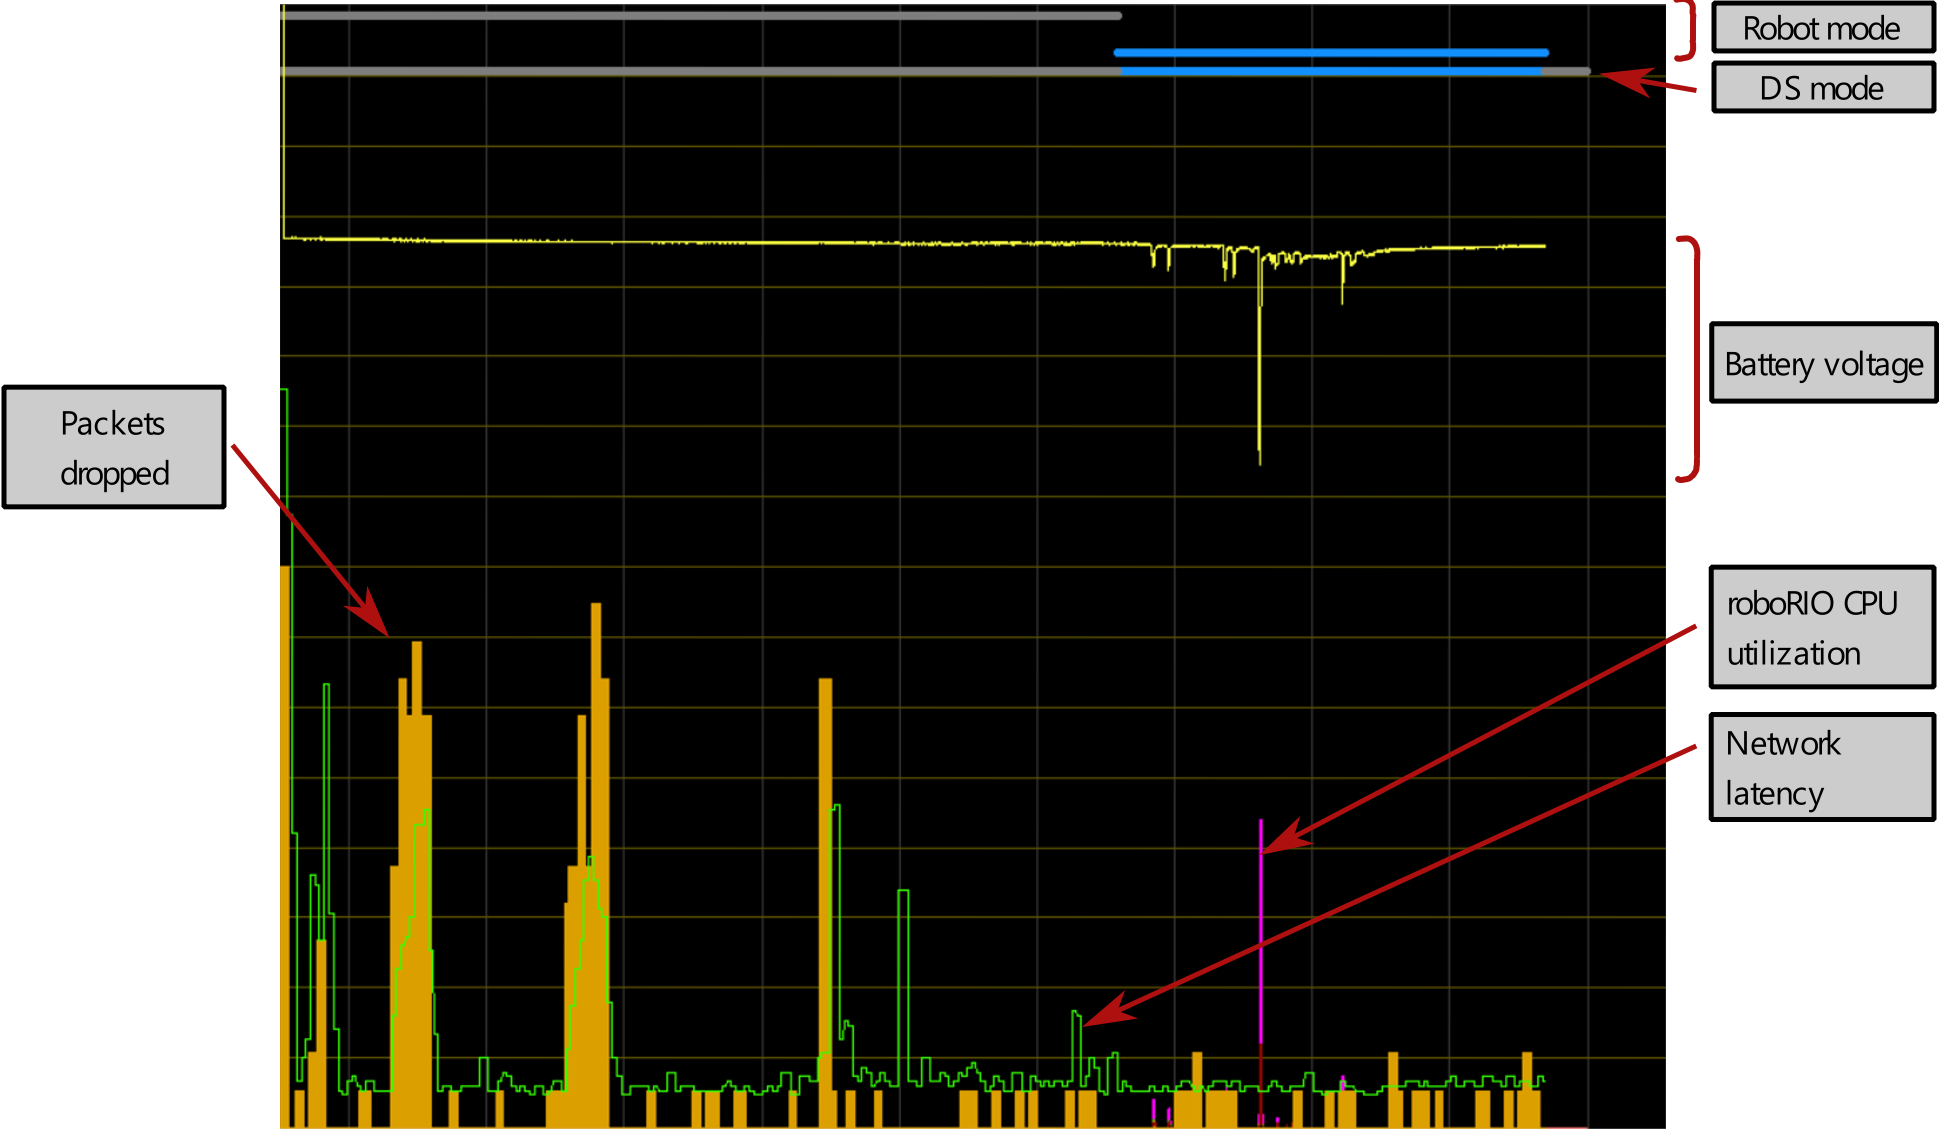
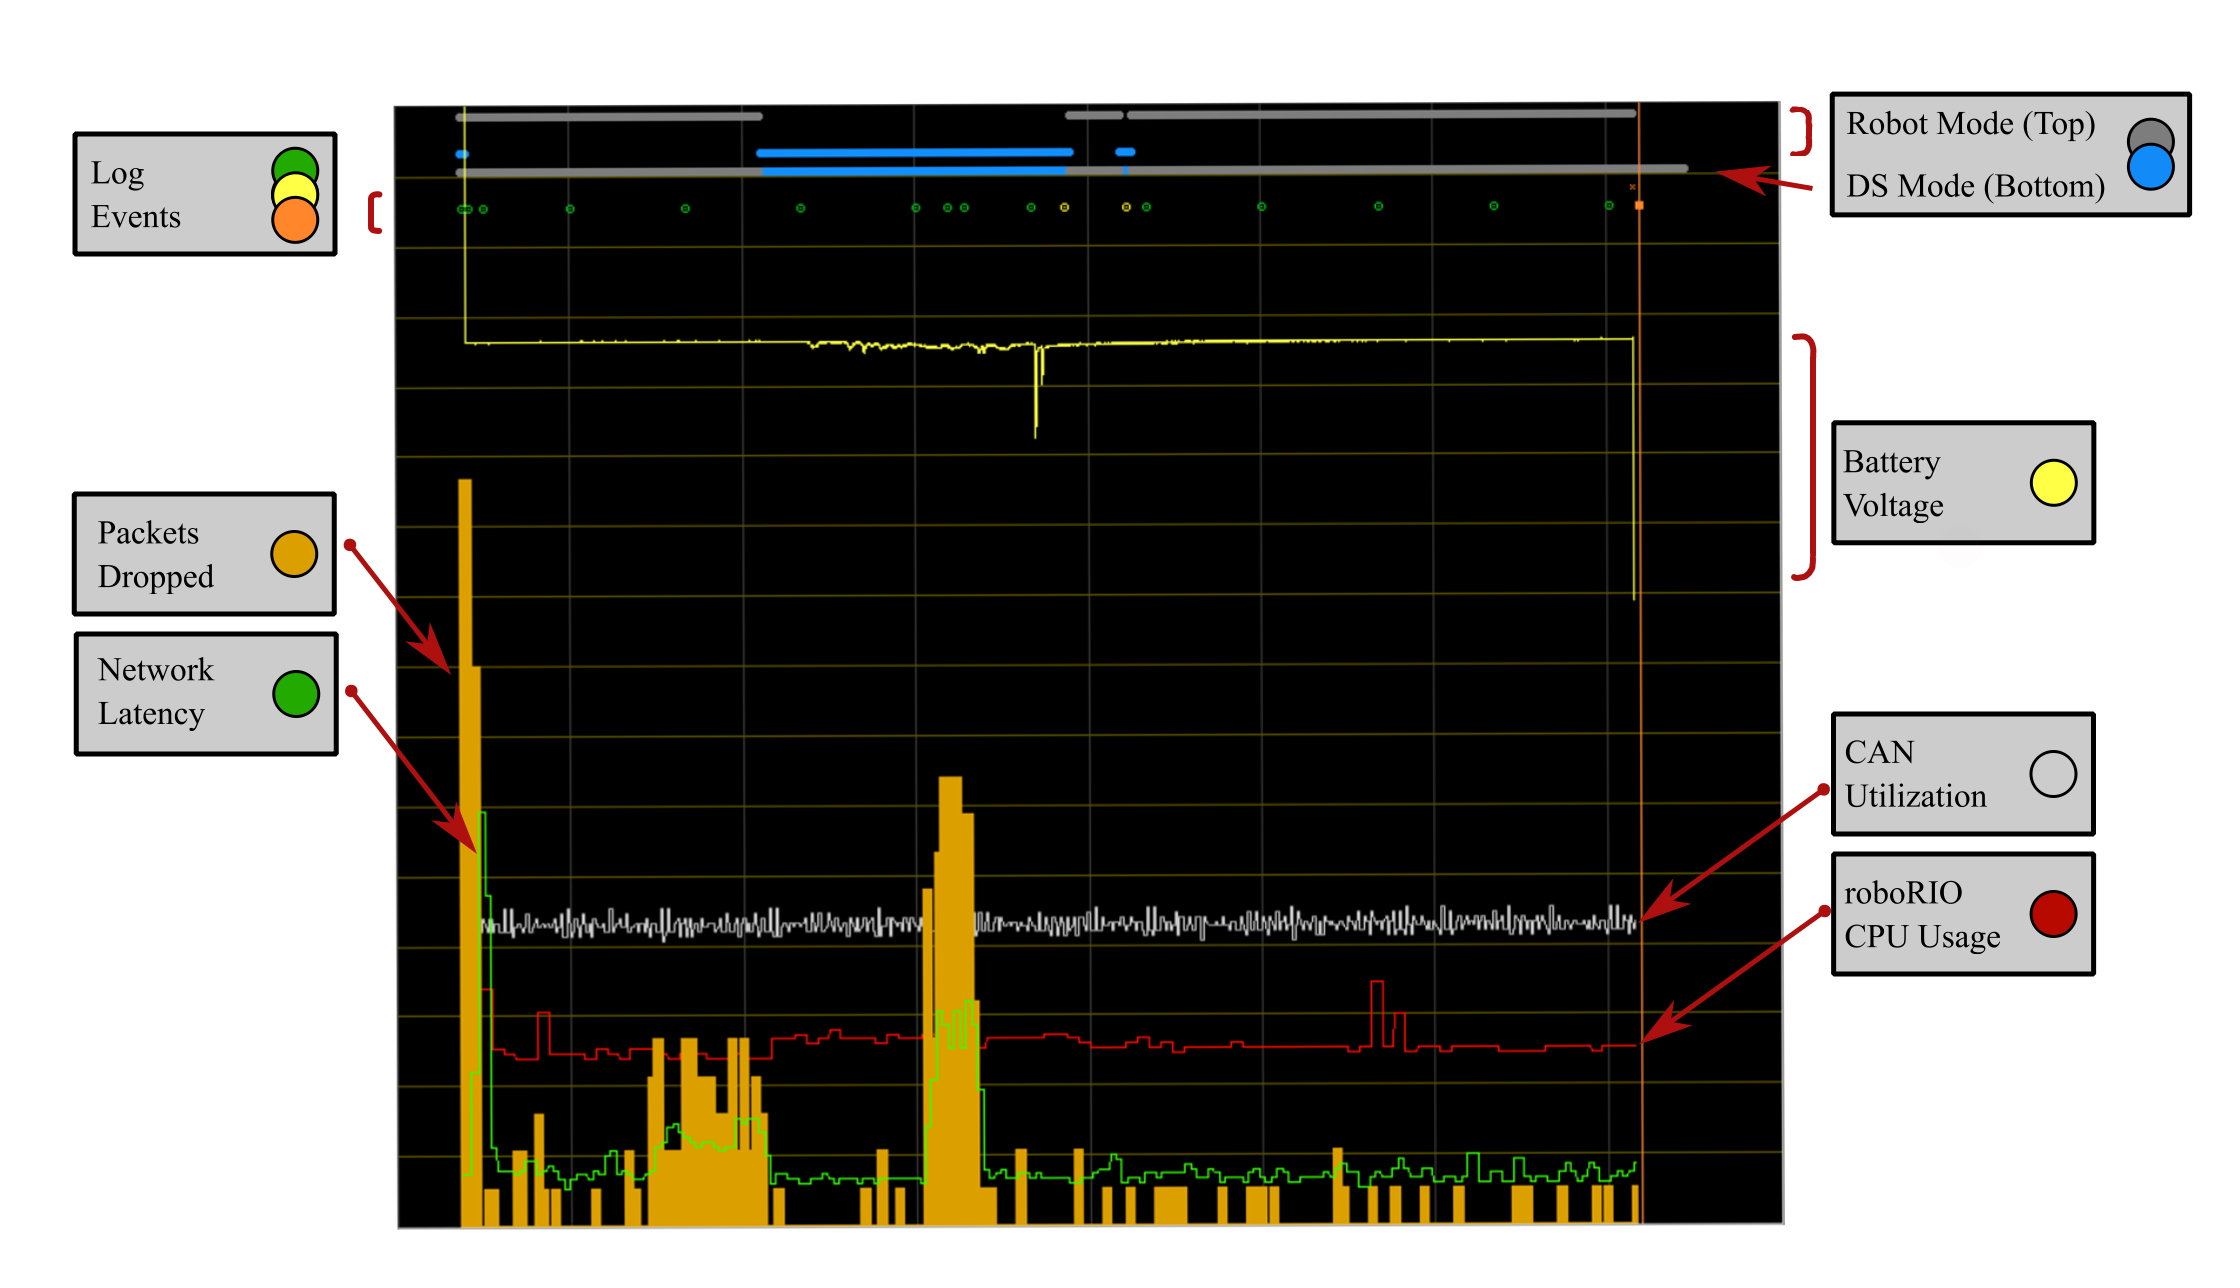
Revised writing on log file viewer doc, pending external checks. Need to fix image links, see [comment](https://github.com/wpilibsuite/frc-docs/pull/2309#issuecomment-1672412851) by @sciencewhiz.

diff --git a/source/docs/software/driverstation/driver-station-log-viewer.rst b/source/docs/software/driverstation/driver-station-log-viewer.rst
@@ -25,45 +25,84 @@ Log Viewer UI
 
 The Log Viewer contains a number of controls and displays to aid in the analysis of the Driver Station log files:
   
-1.  File Selection Box - This window displays all available log files in the currently selected folder. Click on a log file in the list to select it.
-2.  Path to Log Files - This box displays the current folder the viewer is looking in for log files. This defaults to the folder that the Driver Station stores log files in. Click the folder icon to browse to a different location.
-3.  Message Box - This box displays a summary of all messages from the Event Log. When hovering over an event on the graph this box changes to display the information for that event.
-4.  Scroll Bar - When the graph is zoomed in, this scroll bar allows for horizontal scrolling of the graph.
-5.  Voltage Filter - This control turns the Voltage Filter on and off (defaults to on). The Voltage Filter filters out data such as CPU %, robot mode and trip time when no Battery Voltage is received (indicating that the DS is no in communication with the roboRIO).
-6.  AutoScale - This button zooms the graph out to show all data in the log.
-7.  Match Length - This button scales the graph to approximately the length of an FRC match (2 minutes and 30 seconds shown). It does not automatically locate the start of the match, you will have to scroll using the scroll bar to locate the beginning of the Autonomous mode.
-8.  Graph - This display shows graph data from the DS Log file (voltage, trip time, roboRIO CPU%, Lost Packets, and robot mode) as well as overlaid event data (shown as dots on the graph with select events showing as vertical lines across the entire graph). Hovering over event markers on the graph displays information about the event in the Messages window in the bottom left of the screen.
-9.  Robot Mode Key - Key for the Robot Mode displayed at the top of the screen
-10. Major event key - Key for the major events, displayed as vertical lines on the graph
-11. Graph key - Key for the graph data
-12. Filter Control - Drop-down to select the filter mode (filter modes explained below)
-13. Tab Control - Control to switch between the Graph (Data and Events vs. Time) and Event List displays.
+- **Log File Selection Box** - This window displays all available log files in the currently selected folder (directory). 
+- **Active Log File Directory** - This box displays the current path that the DS is using to locate log files. This defaults to the folder that the Driver Station stores log files in. Click the folder icon to browse to a different location.
+- **Message Box** - This box displays a summary of all messages from the Event Log. When hovering over an event on the graph this box changes to display the information for that event.
+- **Scroll Bar** (Not Pictured) - When the graph is zoomed in, a scroll bar appears for both the corresponding axes, allowing for scrolling of the graph.
+- **Graph Display Modifiers** - These controls, explained below, directly manipulate the current graph display.
+
+   - Voltage Filter - This control turns the Voltage Filter on and off (defaults to on). The Voltage Filter filters out data such as CPU %, robot mode and trip time when no Battery Voltage is received (indicating that the DS is not in communication with the roboRIO).
+   - AutoScale - This button zooms the graph out to show all data in the log.
+   - Match Length - This button scales the graph to approximately the length of an FRC match (2 minutes and 30 seconds shown). It does not automatically locate the start of the match, you will have to scroll using the scroll bar to locate the beginning of the Autonomous mode.
+
+- **Graph Display** - This area shows graph data from the DS Log file (voltage, trip time, roboRIO CPU %, etc.) as well as overlaid event data (shown as dots on the graph with select events showing as vertical lines across the entire graph). Hovering over event markers on the graph displays information about the event in the Message Box window in the bottom left area of the screen.
+
+   - X-Axis: Time Duration of Log in *seconds* (s)
+   - Y-Axis (Left): Latency (ms), Packet Loss (%), roboRIO CPU %, CAN %, Battery Voltage
+   - Y-Axis (Right): :term:`PDP` Amperage
+
+- **Filter Mode** - Drop-down to select the filter mode (see :ref:`filters <filters-1>`).
+- **Tab Control** - Control to switch between the Graph (Data and Events vs. Time) and Event List displays.
 
 Using the Graph Display
 -----------------------
 
-.. image:: images/driver-station-log-viewer/graphdisplay.png
+.. image:: images/driver-station-log-viewer/DS_LogFileViewer_PlotDataExplained.png
    :alt: The different parts of the graph screen and some of the basic signals.
+
+.. note:: The following information was obtained by a robot that was tethered to a DS with no FMS present.
 
 In the default view, the Graph Display contains the following information:
 
-1.  Graphs of Trip Time in ms (green line) and Lost Packets per second (displayed as blue vertical bars). In these example images Trip Time is a flat green line at the bottom of the graph and there are no lost packets
-2.  Graph of Battery voltage displayed as a yellow line.
-3.  Graph of roboRIO CPU % as a red line
-4.  Graph of robot mode and DS mode. The top set of the display shows the mode commanded by the Driver Station. The bottom set shows the mode reported by the robot code. In this example the robot is not reporting it's mode during the disabled and autonomous modes, but is reported during Teleop.
-5.  Event markers will be displayed on the graph indicating the time the event occurred. Errors will display in red; warnings will display in yellow. Hovering over an event marker will display information about the event in the Messages box at the bottom left of the screen.
-6.  Major events are shown as vertical lines across the graph display.
+- **Trip Time** in *ms* (green line, represented as "Network Latency") and Lost Packets per second (displayed as orange vertical bars, "Packets Dropped"). In this above figure, Trip Time can be seen fluctuating at the bottom of the graph and there are lost packets throughout the capture duration of the log.
+- **Battery Voltage** in *volts* displayed as a yellow line.
+- **roboRIO CPU usage** as a *percentage* as a red line.
+- **CAN Utilization** as a *percentage* as a light grey line.
+- **Robot Mode** and **DS Mode**. The top set of the display shows the mode commanded by the Driver Station. The bottom set shows the mode reported by the robot code.
+- **Log Events** (event markers) will be displayed on the graph indicating the time the event occurred. Errors will display in red; warnings will display in yellow; status events will display in green; disconnections will display in orange. Hovering over an event marker will display information about the event in the Messages box at the bottom left of the screen.
+
+   - **Major events** are shown as vertical lines across the graph display (in this example, a disconnection event occurred towards the end of the log).
+
 
 To zoom in on a portion of the graph, click and drag around the desired viewing
 area. You can only zoom the time axis, you cannot zoom vertically.
 
+Customizing the Graph Display
+-----------------------------
+
+It is possible to change which data is being plotted on the graph display at any given time. 
+
+Advancements in the roboRIO control system (particularly resulting from the tight integration of components using CAN) enable teams to communicate with devices within the network using libraries and obtain data using the log viewer. As such, with most modern robot configurations, the following information is available to be visualized:
+
+Default view:
+
+- Trip Time
+- Lost Packets
+- Voltage
+- roboRIO CPU %
+- CAN %
+- Robot Mode / DS Mode
+
+   - Robot/DS Disable
+   - Robot/DS Auto
+   - Robot/DS Tele
+
+The view can be customized using the "Plots" tab in the upper right hand corner of the log viewer. As an example, the following data collected from a robot can graphed:
+
+.. image:: images/driver-station-log-viewer/DriverStation_LogDataSelection.png
+   :alt: Example of data that could be toggled on/off in a graph display.
+
+.. note:: A :term:`PDP` was connected to the robot at the time this log was collected, and as such all 15 channels can be visualized. This will differ compared to a log collected from a robot using a :term:`PDH`, whereas an upper limit of 23 channels exist to be monitored.
+
 Event List
 ----------
 
-.. image:: images/driver-station-log-viewer/eventlist.png
+.. image:: images/driver-station-log-viewer/DS_LogFileViewer_Events.png
    :alt: Event List that is gotten to by the tab at the top center.
 
 The Event List tab displays a list of events (warnings and errors) recorded by the Driver Station. The events and detail displayed are determined by the currently active filter (images shows "All Events, All Info" filter active).
+
+.. _filters-1:
 
 Filters
 -------

diff --git a/source/docs/software/frc-glossary.rst b/source/docs/software/frc-glossary.rst
@@ -116,6 +116,12 @@ FRC Glossary
    mutable
       An object that can be modified after it is created.
 
+   PDH
+      Power Distribution Hub, a *REV Robotics* control system component to provide high & low current power to components on the robot. When compared to the PDP, an on-board LED voltage display, as well as additional channels for more devices, can be found.
+   
+   PDP
+      Power Distribution Panel, a *Cross The Road Electronics* control system component to provide high & low current power to components on the robot.
+   
    permanent-magnet DC motor
       The classification of all legal motors for the FIRST robotics competition. This type of motor takes direct current as input, and uses it to create a magnetic field. In turn, this magnetic field interacts with a physical magnet to create a force that turns the output shaft. Electrical ("brushless") or mechanical ("brushed") means are used to ensure the electrically-generated magnetic field always points in a direction that creates forces when it interacts with the physical magnet, even as the motor's shaft rotates. See `permanent-magnet motor <https://en.wikipedia.org/wiki/Brushed_DC_electric_motor#Permanent-magnet_motors>`__ on Wikipedia for more info.
 
